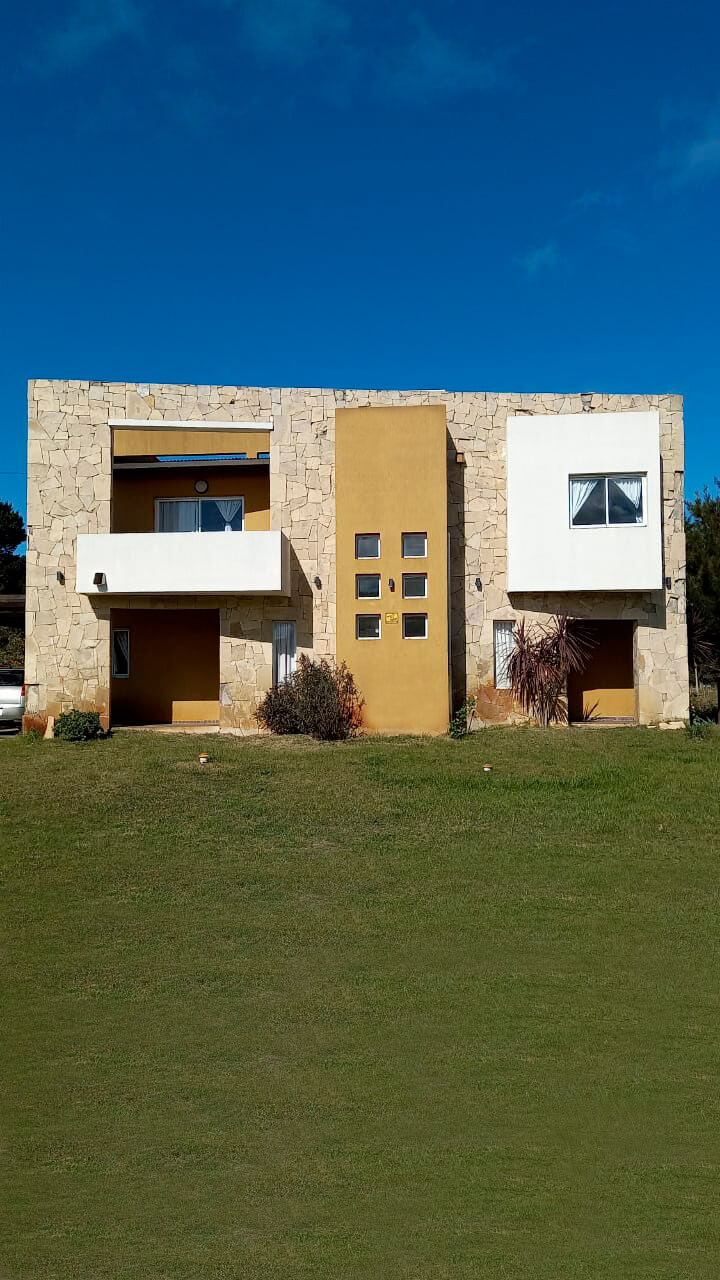
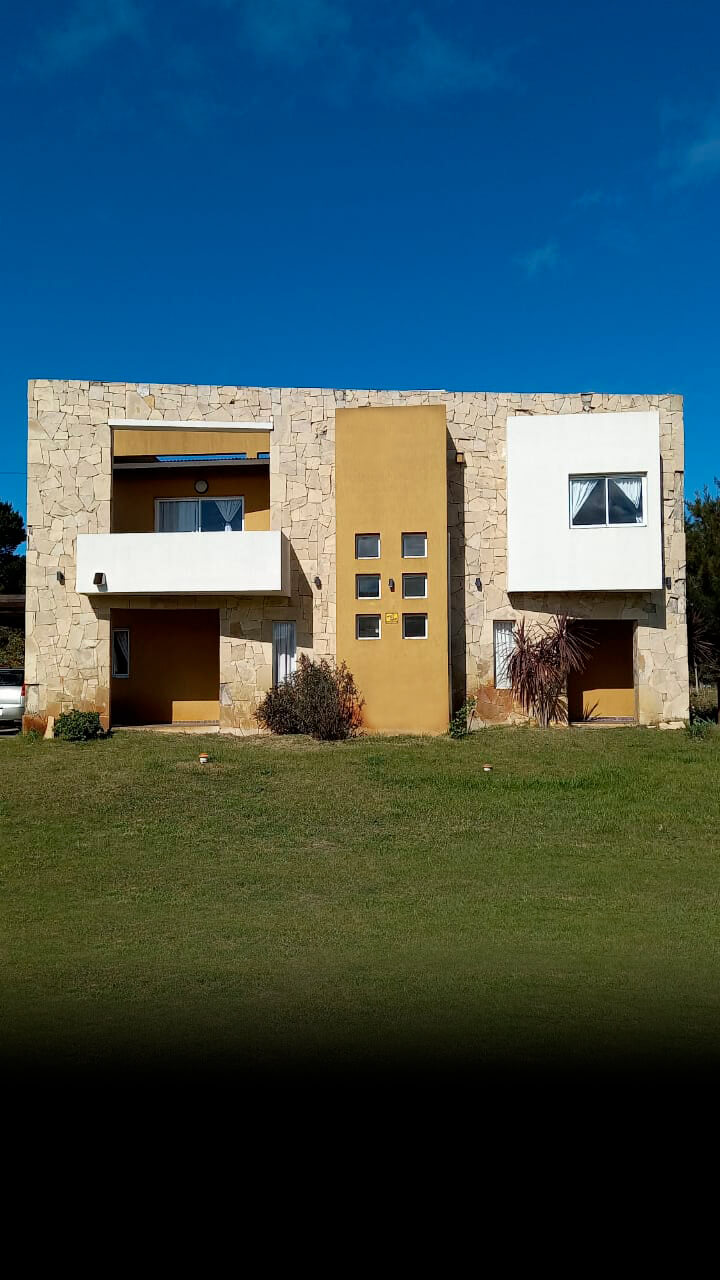
cambio imagen home mobile bottom dark

Changed region(s): [[0.0, 0.75, 1.0, 1.0]]

diff --git a/src/App.css b/src/App.css
@@ -768,10 +768,10 @@ body {
 
 
 @media screen and (max-width: 768px) {
-  .home-image-background {
+  /* .home-image-background {
     width: 100%;
     height: 100%;
-  }
+  } */
 
   /* NAVBAR  768px*/
   .nav-div-icon-menu {
@@ -942,9 +942,10 @@ body {
   .home-image-background-mobile {
     object-fit: cover;
     background: #232a34;
+    width: 100%;
   }
   .home-content {
-    bottom: 14%
+    bottom: 20%
   }
 
   /* US 450px*/
